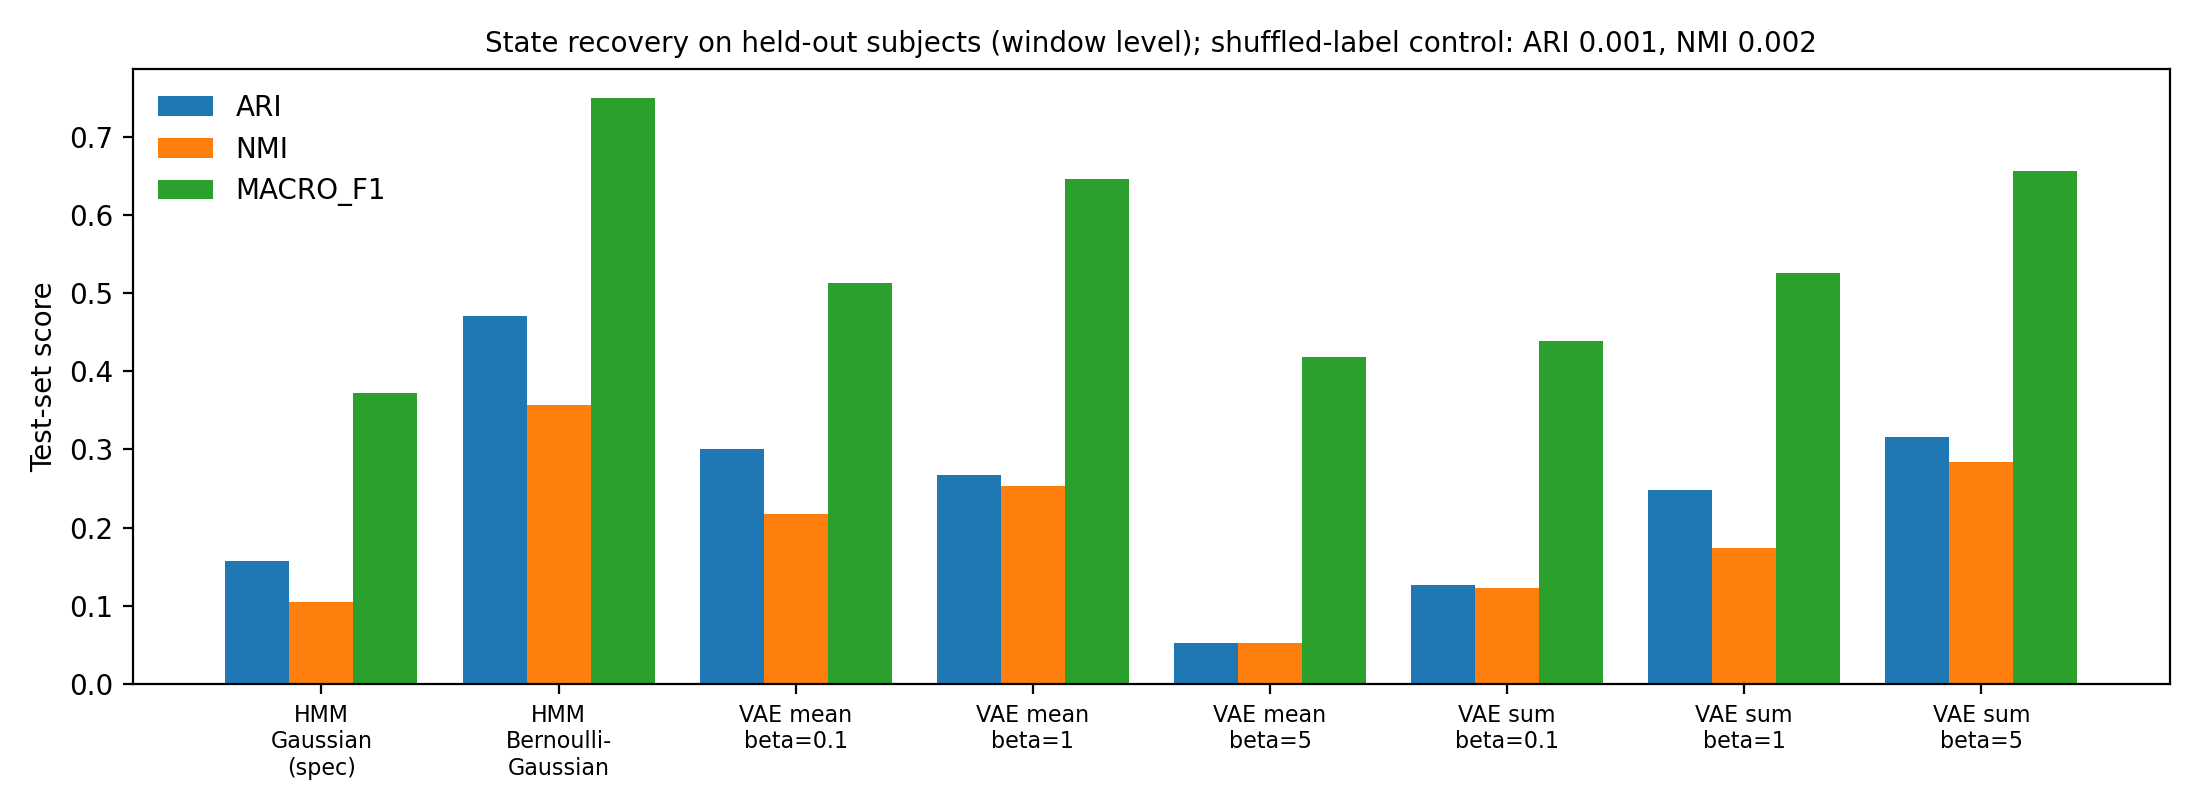
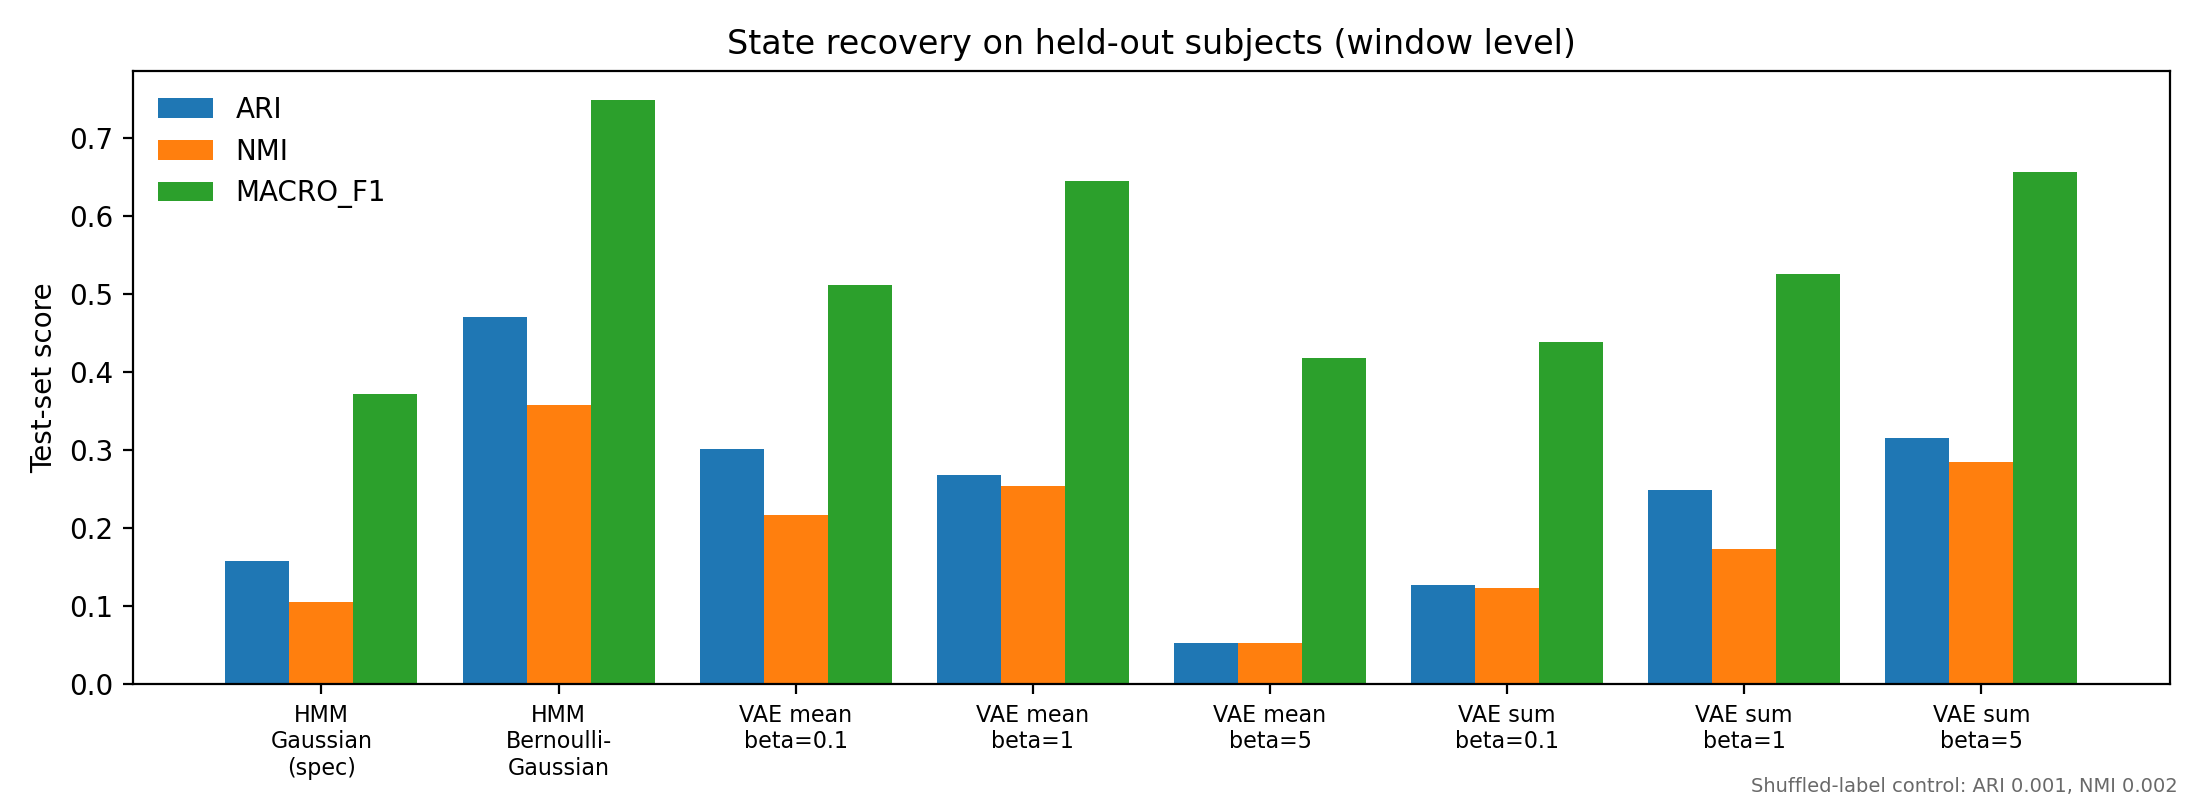
update figure 2 and 5

diff --git a/src/counterfactuals.py b/src/counterfactuals.py
@@ -156,7 +156,14 @@ def main():
                      color=cols[nm], lw=2, label=f"simulator: {nm}")
         axes[0].hist(decoded[f"z{dim} -> {nm} mean"][..., 1].ravel(), bins, density=True,
                      color=cols[nm], alpha=0.35, label=f"VAE z{dim}->{nm}")
-    axes[0].set_xlabel("log-RT"); axes[0].set_ylabel("density"); axes[0].legend(frameon=False, fontsize=7)
+    from matplotlib.lines import Line2D
+    from matplotlib.patches import Patch
+    axes[0].set_xlabel("log-RT"); axes[0].set_ylabel("density")
+    axes[0].legend(handles=[Line2D([0], [0], color="grey", lw=2, label="simulator (outline)"),
+                            Patch(facecolor="grey", alpha=0.5, label="VAE decoded (filled)")],
+                   frameon=False, fontsize=7)
+    axes[0].text(0.98, 0.62, "colour = state:\nblue = engaged, red = lapsed", transform=axes[0].transAxes,
+                 ha="right", va="top", fontsize=7, color="dimgrey")
     axes[0].set_title("Decoded vs ground-truth RT")
     x = np.arange(2)
     for ax, key, ttl in ((axes[1], "mean_log_rt", "Mean log-RT"),
@@ -167,7 +174,6 @@ def main():
             ax.bar(j - 0.2, g, 0.4, color=cols[nm])
             ax.bar(j + 0.2, v, 0.4, color=cols[nm], alpha=0.4, hatch="//")
         ax.set_xticks(x); ax.set_xticklabels(["engaged", "lapsed"]); ax.set_title(ttl)
-        from matplotlib.patches import Patch
         ax.legend(handles=[Patch(facecolor="grey", label="simulator (solid)"),
                            Patch(facecolor="grey", alpha=0.4, hatch="//", label="VAE decoded (hatched)")],
                   frameon=False, fontsize=7)

diff --git a/src/evaluate.py b/src/evaluate.py
@@ -181,7 +181,9 @@ def main():
                label=c.replace("test_", "").upper())
     ax.set_xticks(range(len(summary))); ax.set_xticklabels(labels, fontsize=8)
     ax.set_ylabel("Test-set score"); ax.legend(frameon=False)
-    ax.set_title(f"State recovery on held-out subjects (window level); shuffled-label control: ARI {ctl['ari']:.3f}, NMI {ctl['nmi']:.3f}", fontsize=10)
+    ax.set_title("State recovery on held-out subjects (window level)")
+    fig.text(0.99, 0.005, f"Shuffled-label control: ARI {ctl['ari']:.3f}, NMI {ctl['nmi']:.3f}",
+             ha="right", va="bottom", fontsize=7, color="dimgrey")
     fig.tight_layout(); fig.savefig(fig_dir / "fig2_recovery_comparison.png", dpi=200); plt.close(fig)
 
     mu_te = runs[primary]["mu"]["test"]
